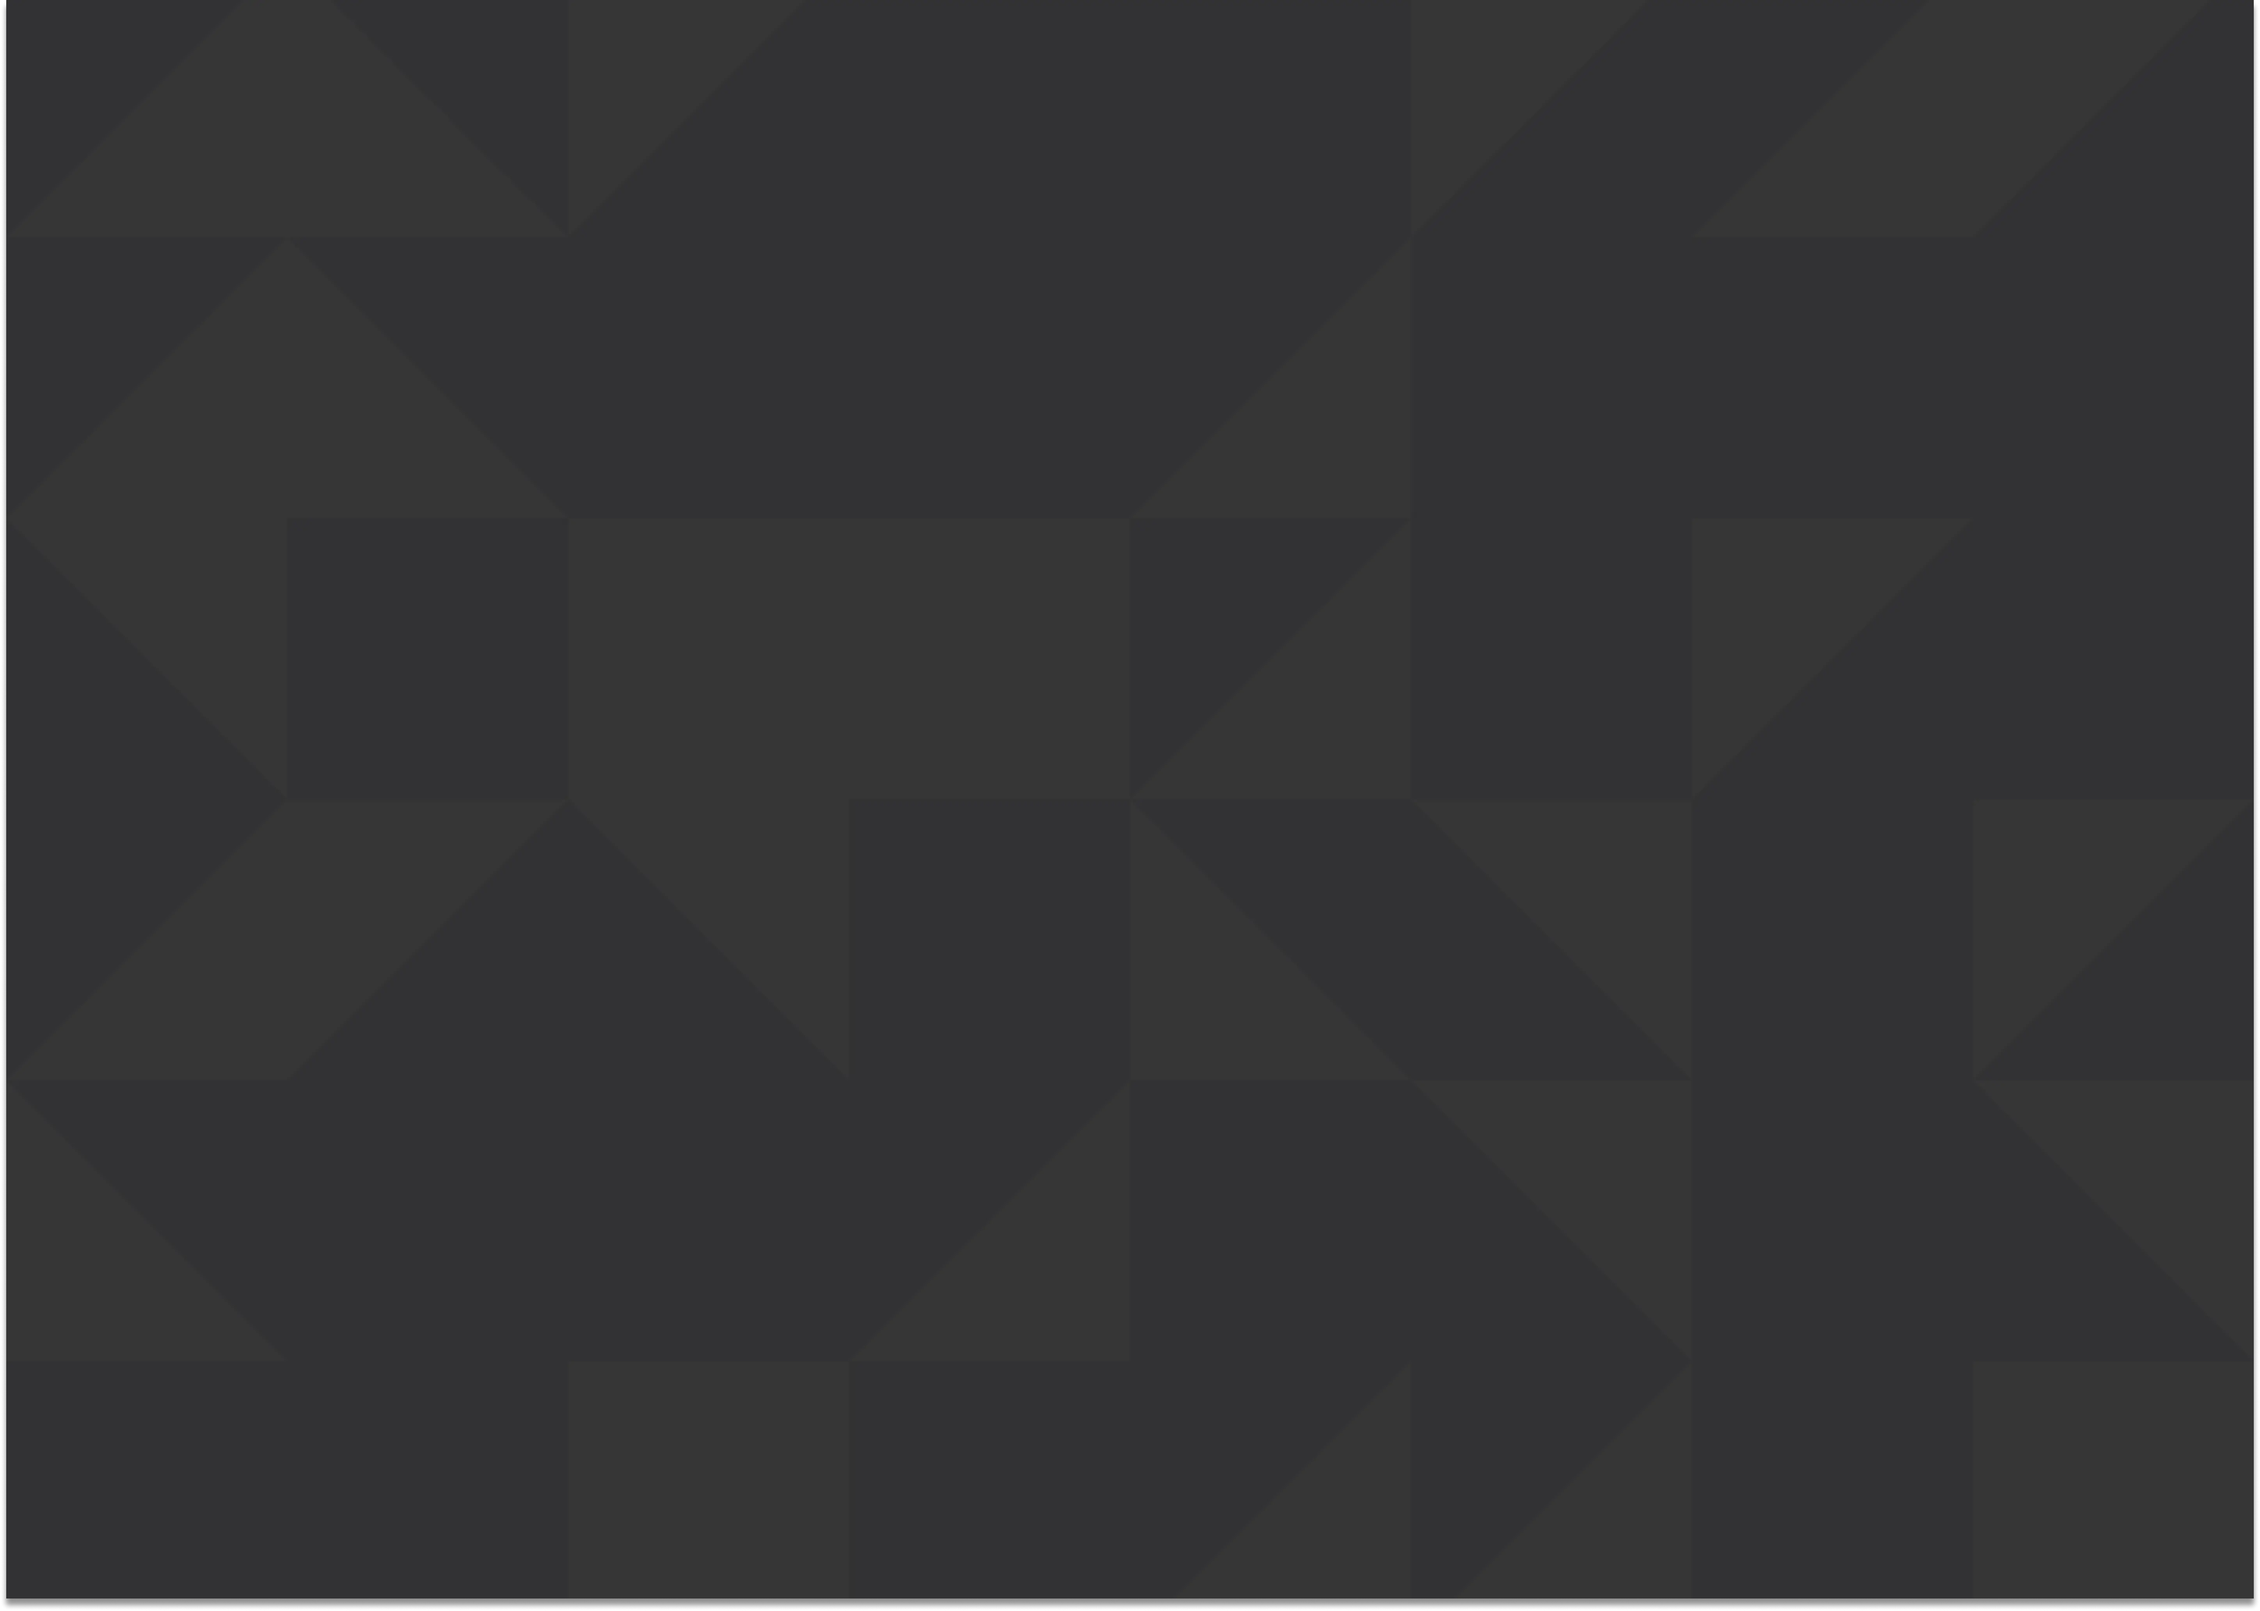
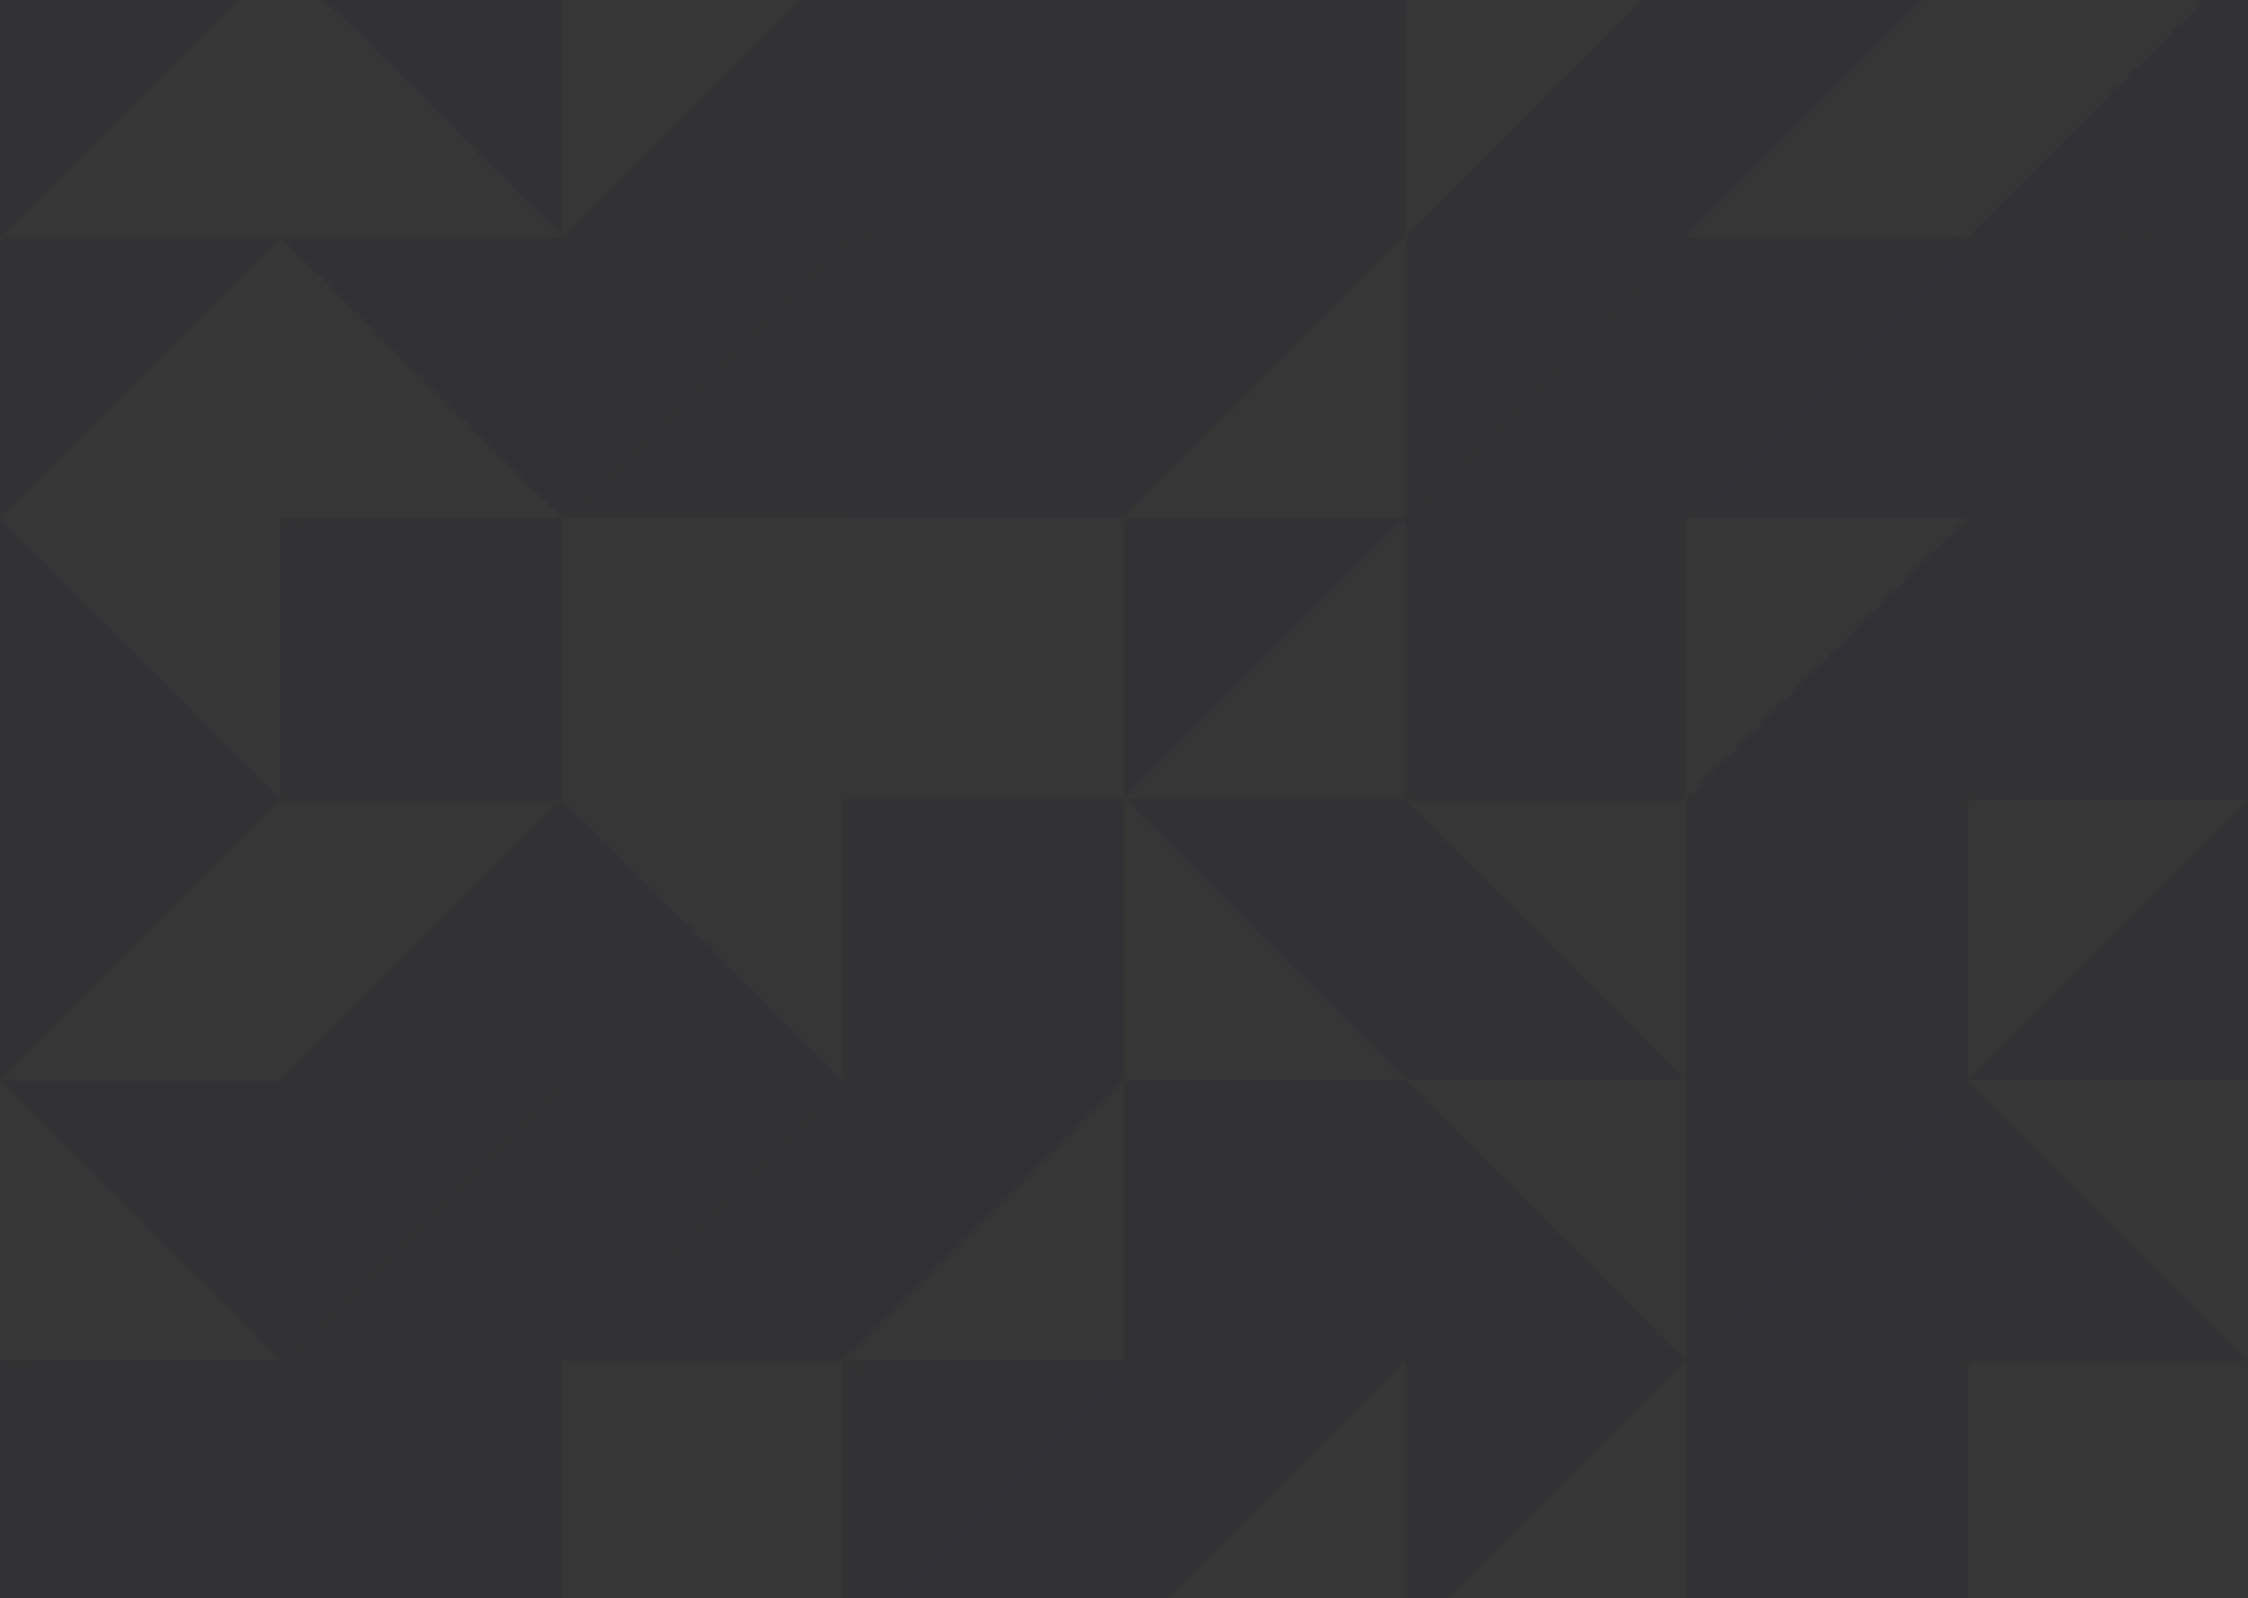
add dark mode

Changed region(s): [[0.0, 0.9688, 1.0, 1.0]]

diff --git a/src/components/card.tsx b/src/components/card.tsx
@@ -11,39 +11,40 @@ const Card: React.FC<{
   className?: string
 }> = ({ img, alt, title, description, icon, className, href, imgFallback }) => (
   <div
-    className={`mx-auto w-full max-w-xs rounded-xl bg-white border-gray-100 border px-5 py-4 text-gray-800 shadow-lg hover:shadow-xl transition duration-300 ease-in-out ${className}`}
+    className={`mx-auto w-full max-w-xs rounded-xl bg-white border-gray-100 border dark:border-primary px-5 py-4 text-secondary dark:bg-secondary shadow-lg hover:shadow-xl transition duration-300 ease-in-out ${className}`}
   >
-    <div className="w-full pt-1 text-center -mt-16 mx-auto">
+    <div className="w-full pt-1 text-center -mt-16 mx-auto ">
       <div className="block relative">
         <ImageWithFallback
           alt={alt}
           src={img}
-          className={`mx-auto object-cover ${
-            icon ? `rounded-md` : `rounded-full`
-          }`}
+          className={`mx-auto object-cover 
+          ${icon ? `rounded-md` : `rounded-full`}`}
           height="80"
           width="80"
           fallbackSrc={imgFallback}
         />
       </div>
     </div>
-    <div className="w-full text-center pt-3">
+    <div className="w-full text-center pt-3 ">
       {href ? (
         <a
           href={href}
           target="_blank"
           rel="noopener noreferrer"
-          className="text-gray-800  font-inter  text-xl font-semibold"
+          className="text-primary dark:text-primary-dark  font-inter  text-xl font-semibold"
         >
           {title}
         </a>
       ) : (
-        <p className="text-gray-800  font-inter  text-xl font-semibold">
+        <p className="text-primary dark:text-primary-dark  font-inter  text-xl font-semibold">
           {title}
         </p>
       )}
 
-      <p className="text-gray-600 pt-2 text-lg tracking-tight">{description}</p>
+      <p className="text-secondary dark:text-secondary-dark  pt-2 text-lg tracking-tight">
+        {description}
+      </p>
     </div>
   </div>
 )

diff --git a/src/components/sponsorCard.tsx b/src/components/sponsorCard.tsx
@@ -7,24 +7,27 @@ const SponsorCard: React.FC<{
   alt?: string
   href?: string
   className?: string
-}> = ({ img, alt, className, href, imgFallback }) => (
-  <a href={href} target="_blank" rel="noopener noreferrer">
-    <div
-      className={`mx-auto w-full max-w-xs rounded-xl bg-white border-gray-100 border px-5 py-4 text-gray-800 shadow-lg hover:shadow-xl transition duration-300 ease-in-out ${className}`}
-    >
-      <div className="block relative">
-        <ImageWithFallback
-          alt={alt}
-          src={img}
-          fallbackSrc={imgFallback}
-          height="150"
-          width="315"
-          layout="responsive"
-          className="object-contain"
-        />
+}> = ({ img, alt, className, href, imgFallback }) => {
+  return (
+    <a href={href} target="_blank" rel="noopener noreferrer">
+      <div
+        className={`mx-auto w-full max-w-xs rounded-xl dark:grayscale dark:hover:grayscale-0 bg-white  border-gray-100 border px-5 py-4 dark:bg-subtle-dark dark:border-primary shadow-lg dark:hover:bg-secondary-dark
+         hover:shadow-xl transition duration-300 ease-in-out backdrop-filter backdrop-saturate-125 ${className}`}
+      >
+        <div className="block relative">
+          <ImageWithFallback
+            alt={alt}
+            src={img}
+            fallbackSrc={imgFallback}
+            height="150"
+            width="315"
+            layout="responsive"
+            className="object-contain "
+          />
+        </div>
       </div>
-    </div>
-  </a>
-)
+    </a>
+  )
+}
 
 export default SponsorCard

diff --git a/src/components/sidebar/link.tsx b/src/components/sidebar/link.tsx
@@ -28,9 +28,13 @@ const Link: React.FC<IProps> = ({
       }}
       transition={{ ease: `easeInOut`, duration: 0.3 }}
       href={link}
-      className={`cursor-pointer capitalize flex items-center mt-1 tracking-tight transition duration-300 ease-in-out ${
-        active ? `text-primary` : `text-subtle`
-      }`}
+      className={`cursor-pointer capitalize flex items-center mt-1 tracking-tight transition
+       duration-300 ease-in-out ${
+         active
+           ? `text-primary dark:text-secondary-dark`
+           : `text-subtle dark:text-subtle-dark
+      `
+       }`}
       onMouseOver={() => setHover(true)}
       onMouseLeave={() => setHover(false)}
     >
@@ -43,9 +47,12 @@ const Link: React.FC<IProps> = ({
           height: active ? `2.2rem` : hover ? `1.2rem` : `1rem`,
         }}
         transition={{ ease: `easeInOut`, duration: 0.3 }}
-        className={`ml-4 border-2 rounded-full transition-colors duration-500 ease-in-out ${
-          active ? `border-primary` : `border-subtle`
-        }`}
+        className={`ml-4 border-2 rounded-full transition-colors duration-500 ease-in-out
+         ${
+           active
+             ? `border-primary dark:border-primary-dark`
+             : `border-subtle dark:border-subtle-dark`
+         }`}
       />
     </motion.a>
   )

diff --git a/src/components/sections/home.tsx b/src/components/sections/home.tsx
@@ -15,11 +15,11 @@ const Home = () => {
           Vignette
         </PrimaryText>
 
-        <p className="md:text-3xl text-xl font-semibold pt-4">
+        <p className="md:text-3xl text-xl font-semibold pt-4 dark:text-gray-200">
           Make your streams more virtual.
         </p>
         <div className="mt-12">
-          <p className="text-subtle font-medium tracking-tight">
+          <p className="text-subtle dark:text-subtle-dark font-medium tracking-tight">
             Free and Open Source
           </p>
           <a href="#download">
@@ -29,11 +29,13 @@ const Home = () => {
       </div>
 
       <Link href="#about" passHref>
-        <a className="bottom-0 mx-auto flex flex-col align-center items-center p-4">
-          <p className="text-subtle text-lg tracking-tight">Learn more</p>
+        <a className="bottom-0 mx-auto flex flex-col align-center items-center p-4 pb-6">
+          <p className="text-subtle dark:text-subtle-dark text-lg tracking-tight">
+            Learn more
+          </p>
           <Icon
             icon="akar-icons:chevron-down"
-            className="text-subtle h-4 w-4"
+            className="text-subtle dark:text-subtle-dark h-4 w-4"
           />
         </a>
       </Link>

diff --git a/src/components/sections/download.tsx b/src/components/sections/download.tsx
@@ -11,13 +11,13 @@ const Download: React.FC = () => (
       Download
     </PrimaryText>
 
-    <div className="text-center m-auto pt-8 transition-transfrom duration-300 ease-in-out hover:-translate-y-3">
+    <div className="text-center m-auto pt-8 transition-transfrom duration-300 ease-in-out hover:-translate-y-3 ">
       <a
         href="https://github.com/vignetteapp/vignette/releases"
         target="_blank"
         rel="noopener noreferrer"
       >
-        <Button className="bg-secondary py-4" disableGradient>
+        <Button className="bg-secondary py-4 " disableGradient>
           Get it from{` `}
           <Icon
             className="inline-block ml-1"
@@ -29,7 +29,7 @@ const Download: React.FC = () => (
       </a>
     </div>
 
-    <p className="text-center mx-auto text-subtle mt-4">
+    <p className="text-center mx-auto text-subtle dark:text-subtle-dark mt-4">
       Other platforms soon&trade;
     </p>
   </Layout>

diff --git a/src/styles/main.css b/src/styles/main.css
@@ -6,7 +6,7 @@
 
 /* Scrollbar: Chromium */
 ::-webkit-scrollbar {
-  @apply w-2;
+  @apply w-2 bg-primary;
 }
 
 ::-webkit-scrollbar-track {
@@ -22,6 +22,11 @@
   scrollbar-color: #6a99dd #e5e7eb;
   scrollbar-width: thin;
 }
+*.dark {
+  scrollbar-color: #BE58CB #323232;
+  scrollbar-width: thin;
+
+}
 
 /* Globals */
 * {
@@ -32,13 +37,10 @@
 }
 
 
-[data-theme='dark'] {
-  @apply bg-hero-pattern;
 
-}
 
 body {
-  @apply font-inter text-primary bg-hero-pattern bg-center bg-contain;
+  @apply font-inter text-primary dark:bg-hero-pattern-dark bg-hero-pattern bg-center bg-contain;
 }
 
 
@@ -86,8 +88,9 @@ body {
 
 /* Miscellaneous */
 .hero {
-  @apply bg-hero-pattern bg-center bg-no-repeat bg-cover;
+  @apply bg-hero-pattern dark:bg-hero-pattern-dark bg-center bg-cover;
 }
+
 
 .logo {
   @apply font-bold tracking-tightest md:text-8xl text-7xl  !important;

diff --git a/tailwind.config.js b/tailwind.config.js
@@ -41,14 +41,14 @@ module.exports = {
         deepFuscia: '#BE58CB',
         pinkRed: '#F10E5A',
         cornflowerBlue: '#6A99DD',
-        primary: '#323232',
-        secondary: '#444444',
-        subtle: '#777777',
+        primary: { DEFAULT: '#323232', dark: '#F8F8F8' },
+        secondary: { DEFAULT: '#444444', dark: '#DADADA' },
+        subtle: { DEFAULT: '#777777', dark: '#BBBBBB' },
       },
       backgroundImage: {
         'hero-pattern':
           'url(/images/background.webp), url(/images/background.jpg)',
-        'hero-patterm-dark':
+        'hero-pattern-dark':
           'url(/images/background-dark.webp), url(/images/background-dark.jpg)',
       },
       fontFamily: {

diff --git a/src/components/seo.tsx b/src/components/seo.tsx
@@ -17,12 +17,6 @@ const SEO: React.FC<{ title: string; desc: string; path: string }> = ({
       <meta property="og:image" content="/images/banner.jpg" />
       <meta name="twitter:card" content="summary_large_image" />
       <meta name="theme-color" content="#BE58CB" />
-      <link
-        rel="preload"
-        as="font"
-        type="font/woff2"
-        href="/fonts/spartan-latin-variable-wghtOnly-normal.woff2"
-      />
 
       <link rel="preload" as="image" href="/images/background.webp" />
 

diff --git a/src/components/sections/sponsors.tsx b/src/components/sections/sponsors.tsx
@@ -1,6 +1,7 @@
 import { Layout, PrimaryText } from '@/components'
 import SponsorCard from '../sponsorCard'
 import SponsorsList from '@/public/sponsors.json'
+
 export interface Sponsor {
   logo: string
   name: string
@@ -31,7 +32,7 @@ const Sponsors: React.FC = () => (
       ))}
     </div>
 
-    <p className="px-4 text-2xl spaced-line">
+    <p className="px-4 text-2xl spaced-line dark:text-primary-dark">
       Want to be a sponsor?
       <br />
       {` `}

diff --git a/src/pages/_app.tsx b/src/pages/_app.tsx
@@ -8,5 +8,9 @@ import '@fontsource/spartan/700.css'
 import { ThemeProvider } from 'next-themes'
 
 export default function MyApp({ Component, pageProps }: AppProps) {
-  return <ThemeProvider attribute="class"><Component {...pageProps} /></ThemeProvider>
+  return (
+    <ThemeProvider attribute="class">
+      <Component {...pageProps} />
+    </ThemeProvider>
+  )
 }

diff --git a/src/components/sections/features.tsx b/src/components/sections/features.tsx
@@ -29,7 +29,7 @@ const Features: React.FC = () => {
           />
         </div>
 
-        <div className="lg:w-2/3 lg:ml-16">
+        <div className="lg:w-2/3 lg:ml-16 dark:text-primary-dark">
           <PrimaryText className="text-3xl gradient-tertiary tracking-tight font-bold font-spartan py-3">
             Mean and Very lean
           </PrimaryText>
